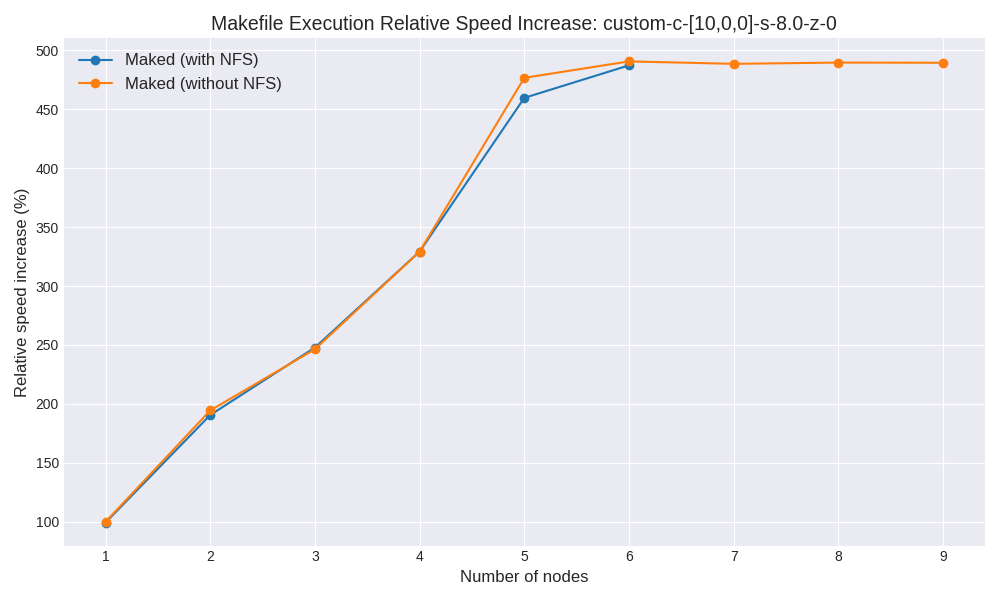
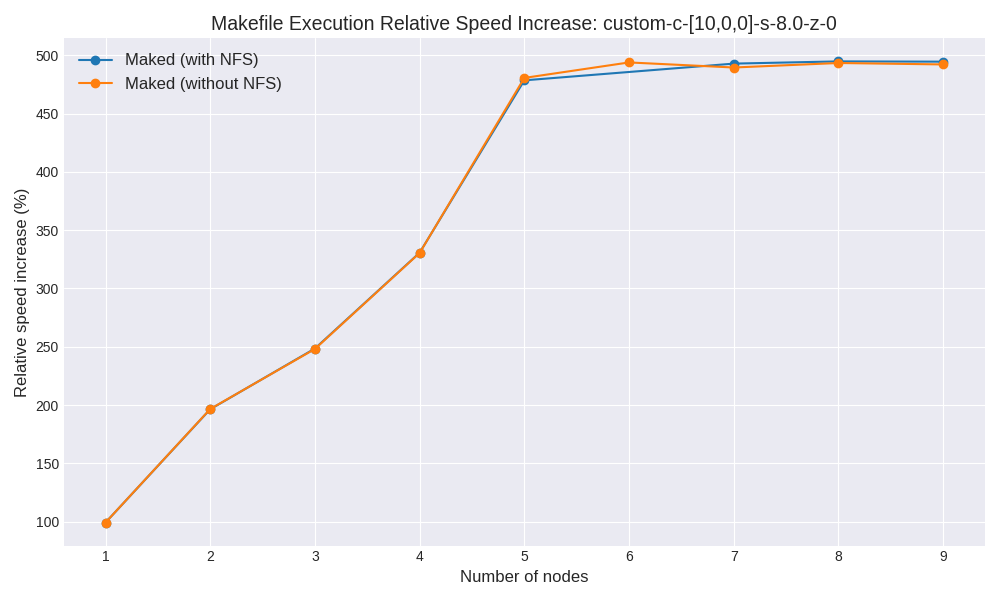
imporation of graphs

diff --git a/deploy_all.py b/deploy_all.py
@@ -54,11 +54,11 @@ if __name__ == "__main__":
 
     script_path = "./maked/run_maked.sh"
     directory_list = [
-        "premier_tiny",
+        # "premier_tiny",
         # "premier",
         # "matrix",
         # "custom-c-[10,0,0]-s-0.0-z-0",
-        # "custom-c-[10,0,0]-s-8.0-z-0",
+        "custom-c-[10,0,0]-s-8.0-z-0",
         # "custom-c-[10,0,0]-s-0.0-z-10000",
         # "custom-c-[10,0,0]-s-8.0-z-10000",
         # "custom-c-[10,10,10]-s-0.0-z-0",
